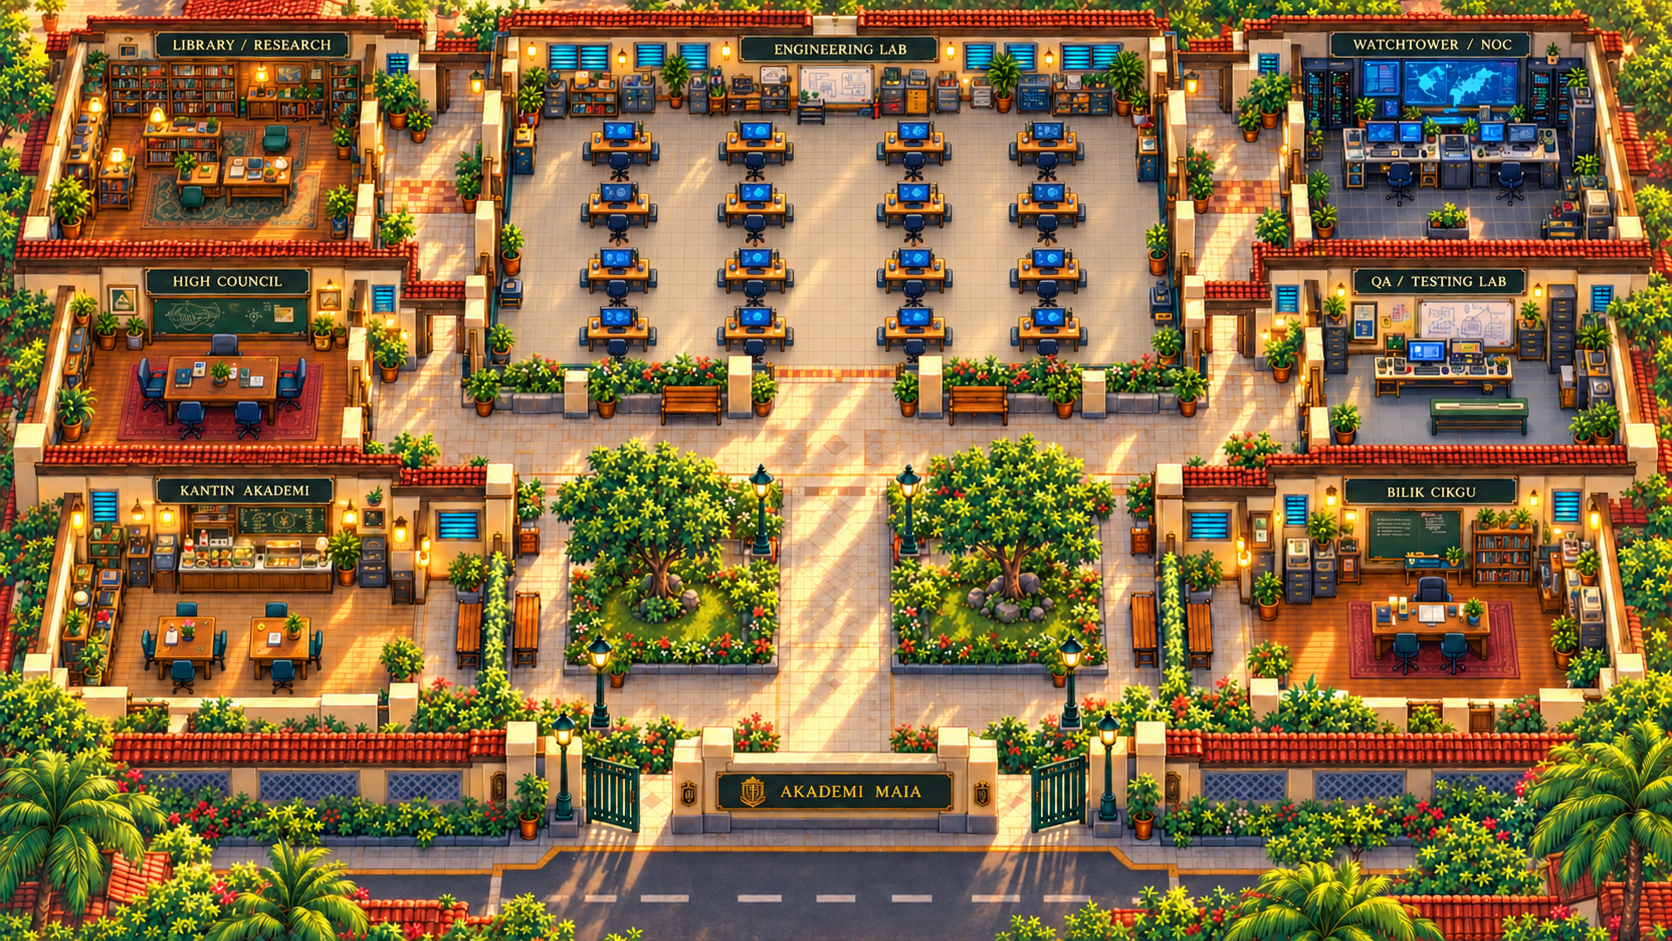
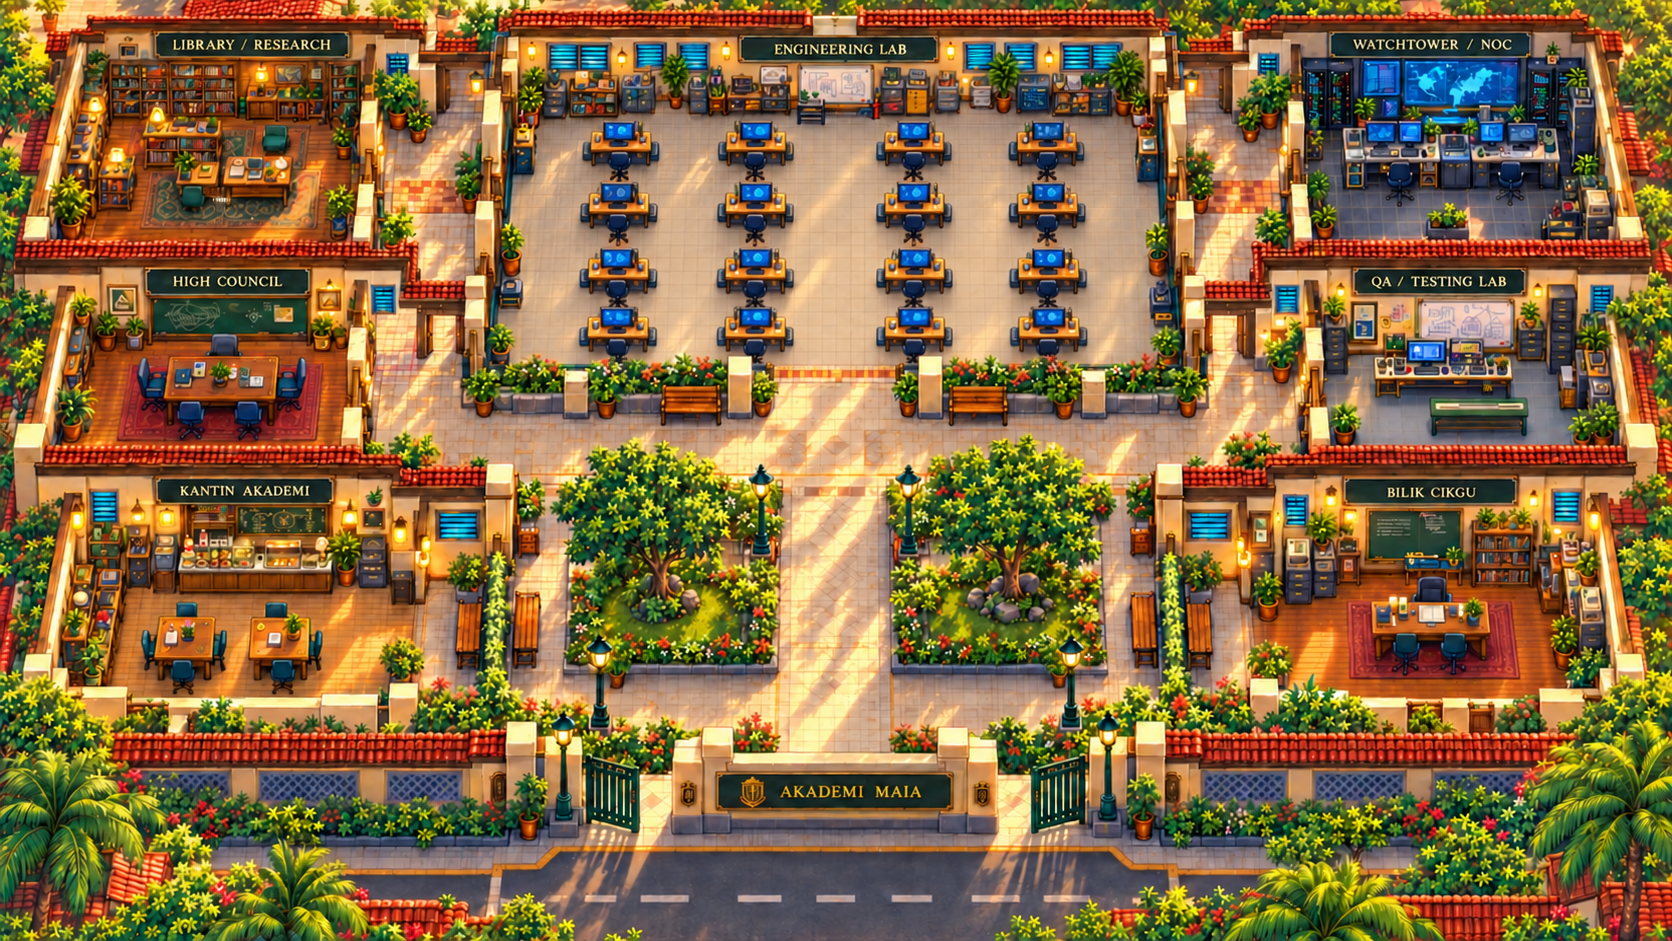
fix(art): clear the council doorway in the warm campus

diff --git a/docs/ASSET_LICENSES.md b/docs/ASSET_LICENSES.md
@@ -5,7 +5,7 @@ Reviewed 2026-10-22. Code licensing and artwork permissions are distinct.
 | Files                                                                                        | Source                                                                      | Permission / evidence                                                                                                                                                                 | Attribution                    |
 | -------------------------------------------------------------------------------------------- | --------------------------------------------------------------------------- | ------------------------------------------------------------------------------------------------------------------------------------------------------------------------------------- | ------------------------------ |
 | `public/assets/campus.png`                                                                   | Original environment made with built-in image generation for this project   | Owner approved the scene and its implementation on 2026-10-20; no borrowed game tilesets                                                                                              | MAIA Retro-Tech Academy / Azib |
-| `public/assets/campus-unified.png`, `art/generated/unified-campus/campus-warm-v5-native.png` | Original built-in imagegen edit of the owner-selected warm project campus   | Owner selected this aesthetic and explicitly accepted native-preview integration; actual source1672×941, no upscale; [submitted prompt](../art/generated/unified-campus/prompt-v5.md) | MAIA Retro-Tech Academy / Azib |
+| `public/assets/campus-unified.png`, `art/generated/unified-campus/campus-warm-v6-native.png` | Original built-in imagegen edit of the owner-selected warm project campus | Owner selected this aesthetic and explicitly accepted native-preview integration; actual source 1672×941, no upscale; [submitted prompt](../art/generated/unified-campus/prompt-v6.md). V6 clears the Council entrance; retained v5 records the sixteen-desk edit. | MAIA Retro-Tech Academy / Azib |
 | `public/assets/sprinter.webp`                                                                | Owner-supplied custom Sprinter pet sprite sheet                             | Owner explicitly authorized using this existing sprite as the explorer in this public personal project                                                                                | Custom asset supplied by Azib  |
 | `public/assets/medalist.webp`                                                                | Owner-supplied custom Medalist pet sprite sheet                             | Owner explicitly authorized using this existing sprite as Ustazah Juliana in this public personal project                                                                             | Custom asset supplied by Azib  |
 | Tiled geometry, UI and original procedural spike art                                         | Academy project                                                             | Project MIT LICENSE                                                                                                                                                                   | Azib                           |
@@ -39,4 +39,4 @@ plates or foreground masks are included in this navigation milestone.
 Custom sprites are retained byte-for-byte, including their alpha channels.
 Dependencies retain package licenses; build output includes collected notices.
 
-The unified v5 plate is an environment-only preview with sixteen lab desks. It preserves the owner-preferred golden light, terracotta, turquoise louvres and tropical detail. It is not a4Kasset; source pixels and logical world units are distinct. Higher-resolution production and exact foreground layers remain later gates. Its geometry registration and runtime acceptance are recorded separately. No characters, UI, provider content or third-party game assets are baked into the plate.
+The unified v6 plate is an environment-only preview with sixteen lab desks. It preserves the owner-preferred golden light, terracotta, turquoise louvres and tropical detail. It is not a 4K asset; source pixels and logical world units are distinct. Higher-resolution production and exact foreground layers remain later gates. Its geometry registration and runtime acceptance are recorded separately. No characters, UI, provider content or third-party game assets are baked into the plate.
